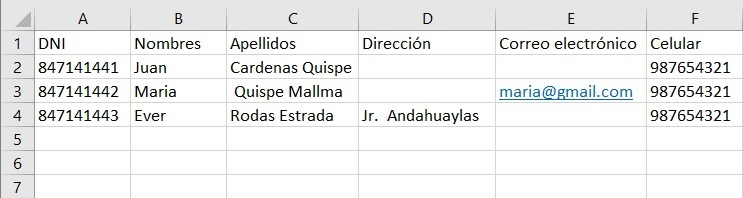
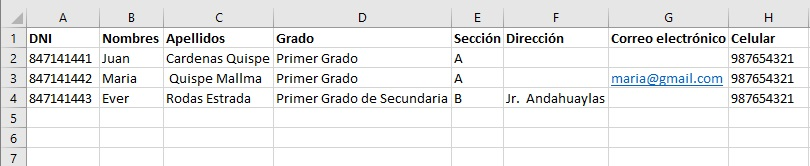
grados y seccion en estudiantes

diff --git a/src/pages/admin/StudentPage.vue b/src/pages/admin/StudentPage.vue
@@ -10,20 +10,43 @@
 			/>
 		</h5>
 
-		<data-table
-		exportName="Estudiantes" :keyTable="'students'"
-		:showBtnImport="true"
-		@btnImport="btnImport"
-		:loading="loading"
-		:columns="columns"
-		:rows="dataTablePinia.students"
-		:keyName="'id'"
-		@editRow="editRow"
-		@deleteRow="deleteRow"
-		:iconAdditionalColumn="'fa-solid fa-qrcode'"
-		:additionalColumnnTitle="'Generar código QR'"
-		@additionalColumn="openGenerateQr"
-		/>
+		<q-card>
+			<div class="q-pt-sm">
+				<div class="row">
+					<div class="col-12 col-sm-3 q-px-sm" :class="$q.screen.width < 600 ? 'q-px-sm' : 'q-pl-md q-pr-sm'">
+						<select-degree
+						:useInject="true"
+						:useRules="false"
+						:useAll="true"
+						@isSelected="getData"
+						/>
+					</div>
+					<div class="col-12 col-sm-3 q-px-sm">
+						<select-section
+						:useInject="true"
+						:useRules="false"
+						:useAll="true"
+						@isSelected="getData"
+						/>
+					</div>
+				</div>
+			</div>
+
+			<data-table
+			exportName="Estudiantes" :keyTable="'students'"
+			:showBtnImport="true"
+			@btnImport="btnImport"
+			:loading="loading"
+			:columns="columns"
+			:rows="dataTablePinia.students"
+			:keyName="'id'"
+			@editRow="editRow"
+			@deleteRow="deleteRow"
+			:iconAdditionalColumn="'fa-solid fa-qrcode'"
+			:additionalColumnnTitle="'Generar código QR'"
+			@additionalColumn="openGenerateQr"
+			/>
+		</q-card>
 
 		<import-student />
 		<generate-qr 
@@ -35,16 +58,20 @@
 <script setup>
 import { ref, provide } from 'vue'
 import { useDataTableStore } from 'stores/dataTable'
+import { useLoanStore } from 'stores/loan'
 import { useQuasar } from 'quasar'
 import DataTable from 'components/admin/dataTable/DataTable.vue'
 import CreateStudent from 'components/admin/dialogs/CreateStudent.vue'
 import GenerateQr from 'components/admin/dialogs/GenerateQr.vue'
 import ImportStudent from 'components/admin/import/ImportStudent.vue'
 import useHttpService from 'utils/httpService'
+import SelectDegree from 'components/admin/form/SelectDegree.vue'
+import SelectSection from 'components/admin/form/SelectSection.vue'
 
 const $q = useQuasar()
 const dataTablePinia = useDataTableStore()
-const { get, deleteApi } =  useHttpService()
+const loanPinia = useLoanStore()
+const { post, deleteApi } =  useHttpService()
 
 const columns = [
 {
@@ -90,6 +117,9 @@ const selectRow = ref({})
 const dialog = ref(false)
 const isUpdate = ref(false)
 
+const degreeSelected = ref(null)
+const sectionSelected = ref(null)
+
 const dialogImport = ref(false)
 
 const dialogGenerateQR = ref(false)
@@ -97,13 +127,19 @@ const textQR = ref('')
 
 provide('dialog', dialog)
 provide('isUpdate', isUpdate)
+provide('degreeSelected', degreeSelected)
+provide('sectionSelected', sectionSelected)
 provide('dialogImport', dialogImport)
 provide('dialogGenerateQR', dialogGenerateQR)
 
 const getData = () => {
 	loading.value = true
-	get('admin/student', false).then((response) => {
-		console.log('student', response)
+	const form = {
+		degree_id: degreeSelected.value ? degreeSelected.value.value : 0,
+		section_id: sectionSelected.value ? sectionSelected.value.value : 0,
+	}
+	post('admin/students', form, false).then((response) => {
+		console.log('students', response)
 		if(response.status >= 200 && response.status < 300) {
 			dataTablePinia.setStudents(response.data.data)
 		}
@@ -130,6 +166,7 @@ const deleteRow = (row) => {
 		if(response.status >= 200 && response.status < 300) {
 			let data = dataTablePinia.students.filter((item) => item.id != row.id)
 			dataTablePinia.setStudents(data)
+			loanPinia.setStudents([])
 		}
 	})
 }
@@ -140,6 +177,10 @@ const openGenerateQr = (row) => {
 }
 
 const btnImport = () => {
+	dialog.value = true
+	setTimeout(() => {
+		dialog.value = false
+	}, 100)
 	dialogImport.value = true
 }
 </script>

diff --git a/src/components/admin/import/ImportStudent.vue b/src/components/admin/import/ImportStudent.vue
@@ -1,6 +1,6 @@
 <template>
 	<q-dialog v-model="dialogImport" :maximized="$q.screen.width < 700 ? true : false" transition-show="slide-up" transition-hide="slide-down" @show="initUpdate" @hide="closeDialog">
-		<q-card style="width: 650px; max-width: 650px" class="q-px-sm">
+		<q-card style="width: 750px; max-width: 750px" class="q-px-sm">
 			<q-card-section class="row items-center q-pb-none">
 				<div class="text-h6 text-color-dark text-bold">Importar Excel</div>
 				<q-space />
@@ -70,10 +70,12 @@
 
 <script setup>
 import { ref, inject } from 'vue'
+import { useLoanStore } from 'stores/loan'
 import readXlsxFile from 'read-excel-file'
 import useHttpService from 'utils/httpService'
 import useAlerts from 'utils/alerts'
 
+const loanPinia = useLoanStore()
 const { post } =  useHttpService()
 const { alertNotify } = useAlerts()
 
@@ -125,9 +127,11 @@ const importExcel = () => {
 							dni: rows[i][0],
 							name: rows[i][1],
 							last_name: rows[i][2],
-							address: rows[i][3],
-							email: rows[i][4],
-							phone: rows[i][5],
+							degree_id: findDegree(rows[i][3]),
+							section_id: findSection(rows[i][4]),
+							address: rows[i][5],
+							email: rows[i][6],
+							phone: rows[i][7],
 						})
 					}
 				}
@@ -139,6 +143,16 @@ const importExcel = () => {
 	catch {
 		alertNotify('El Excel a importar no se encuentra en un formato adecuado.', 'warning')
 	}
+}
+
+const findDegree = (val) => {
+	let data = loanPinia.degrees.find((item) => item.name.toLowerCase() == val.toLowerCase())
+	return data ? data.id : 1
+}
+
+const findSection = (val) => {
+	let data = loanPinia.sections.find((item) => item.name.toLowerCase() == val.toLowerCase())
+	return data ? data.id : 1
 }
 
 </script>

diff --git a/src/components/admin/dialogs/setting/CreateDegree.vue b/src/components/admin/dialogs/setting/CreateDegree.vue
@@ -22,6 +22,11 @@
 						lazy-rules :rules="[ val => val && val.length > 0 || 'Ingrese un nombre']"
 						/>
 
+						<q-input v-model="form.abbreviation"
+						type="text" label="Abreviatura"
+						lazy-rules :rules="[ val => val && val.length > 0 || 'Ingrese una abreviatura']"
+						/>
+
 						<q-btn rounded :loading="loadingBtn" :disable="loadingBtn" color="primary" type="submit" icon="save" :label="isUpdate ? 'Actualizar' : 'Registrar'" class="q-mt-md">
 							<template v-slot:loading>
 								<q-spinner-facebook />
@@ -57,10 +62,12 @@ const swithModels = inject('swithModels')
 const loadingBtn = ref(false)
 const form = ref({
 	name: '',
+	abbreviation: '',
 })
 
 const openDialog = () => {
 	form.value.name = ''
+	form.value.abbreviation = ''
 	dialog.value = true
 	isUpdate.value = false
 }
@@ -68,6 +75,7 @@ const openDialog = () => {
 const initUpdate = () => {
 	if(isUpdate.value) {
 		form.value.name = props.selectRow.name
+		form.value.abbreviation = props.selectRow.abbreviation
 	}
 }
 

diff --git a/src/components/admin/dialogs/CreateStudent.vue b/src/components/admin/dialogs/CreateStudent.vue
@@ -96,12 +96,14 @@
 <script setup>
 import { ref, inject, provide } from 'vue'
 import { useDataTableStore } from 'stores/dataTable'
+import { useLoanStore } from 'stores/loan'
 import useHttpService from 'utils/httpService'
 import SelectTypeStudent from 'components/admin/form/SelectTypeStudent.vue'
 import SelectDegree from 'components/admin/form/SelectDegree.vue'
 import SelectSection from 'components/admin/form/SelectSection.vue'
 
 const dataTablePinia = useDataTableStore()
+const loanPinia = useLoanStore()
 const { post, put } =  useHttpService()
 
 const props = defineProps({
@@ -180,6 +182,7 @@ const methodForm = () => {
 		update()
 	else
 		register()
+	loanPinia.setStudents([])
 }
 
 const register = () => {

diff --git a/src/pages/admin/setting/DegreesPage.vue b/src/pages/admin/setting/DegreesPage.vue
@@ -49,6 +49,7 @@ const columns = [
 	sortable: false,
 },
 { style: 'white-space: normal;', name: 'name', label: 'Nombre', field: 'name', sortable: true, align: 'left' },
+{ style: 'white-space: normal;', name: 'abbreviation', label: 'Abreviatura', field: 'abbreviation', sortable: true, align: 'left' },
 { 
 	name: 'swith', 
 	label: 'Estado', 
